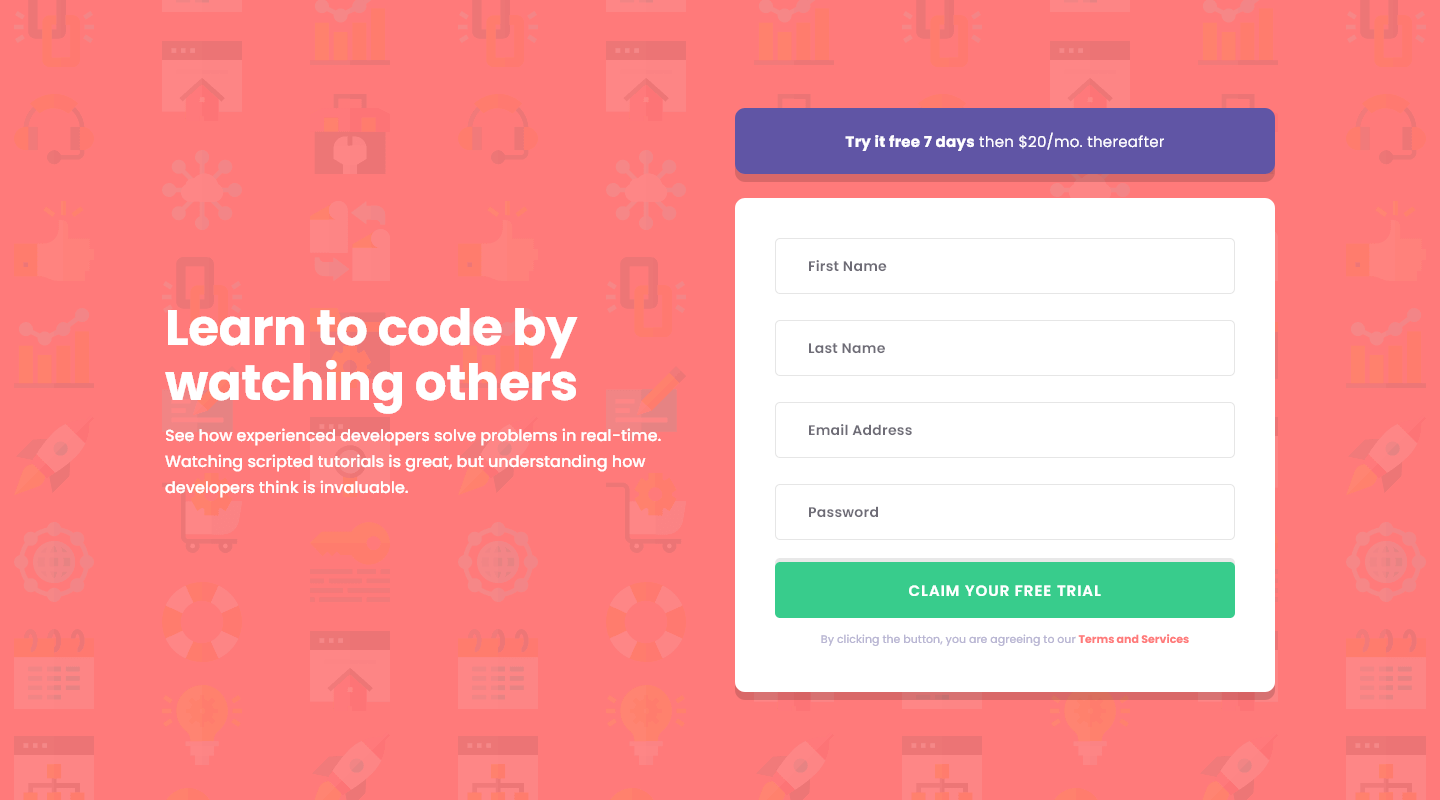
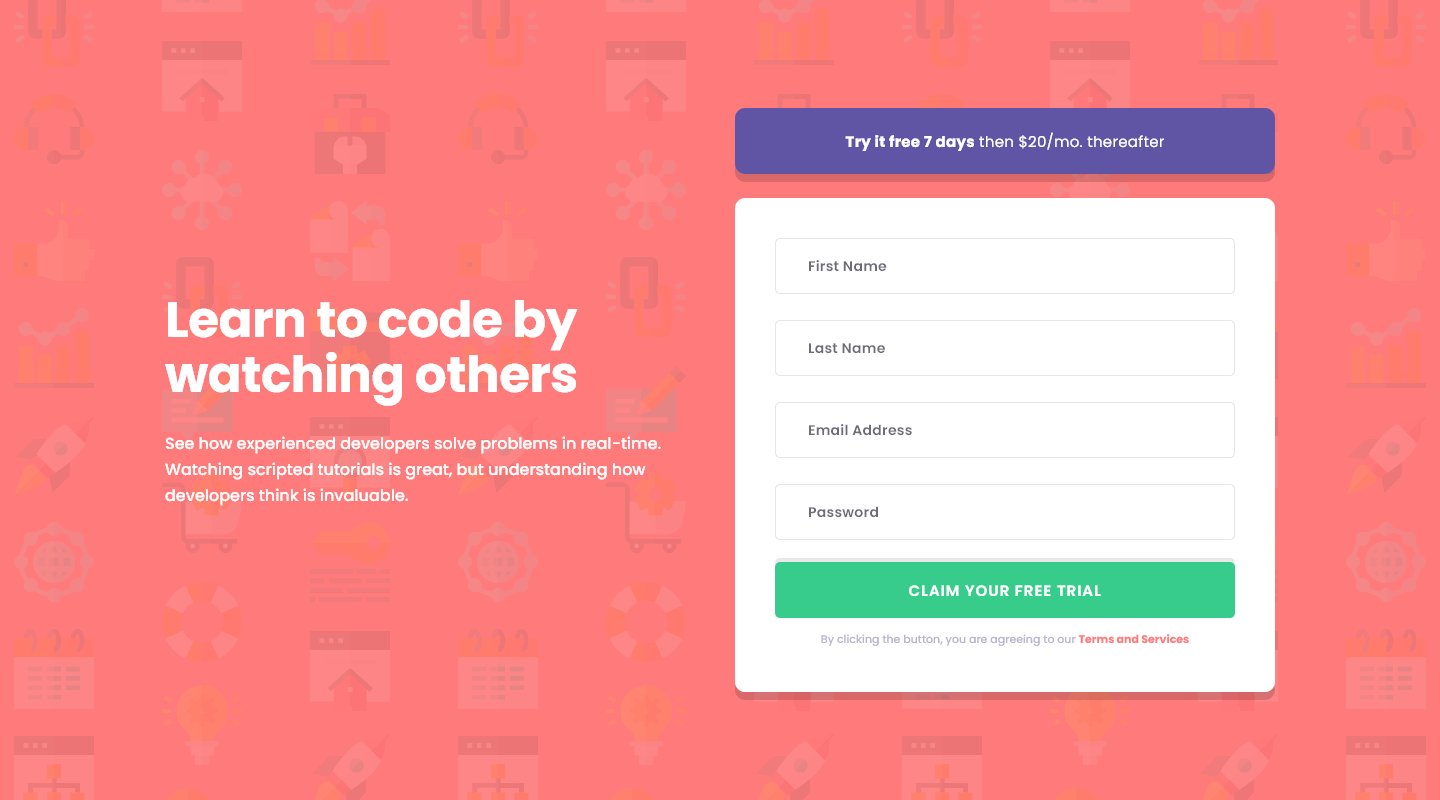
update screenshot

Changed region(s): [[0.0938, 0.375, 0.4688, 0.625]]

diff --git a/src/App.jsx b/src/App.jsx
@@ -8,7 +8,7 @@ function App() {
         <div className="mx-6 my-16 flex flex-col items-center gap-16 text-white lg:mx-4 lg:my-0 lg:flex-row lg:gap-[45px]">
           {/* left content */}
           <div className="max-w-[525px] text-center lg:text-left">
-            <h1 className="mb-4 text-[28px] font-bold leading-9 tracking-[-0.292px] lg:mb-3 lg:text-[50px] lg:leading-[55px] lg:tracking-[-0.521px]">
+            <h1 className="mb-4 text-[28px] font-bold leading-9 tracking-[-0.292px] lg:mb-3 lg:mb-7 lg:text-[50px] lg:leading-[55px] lg:tracking-[-0.521px]">
               Learn to code by watching others
             </h1>
             <p className="font-medium leading-[26px]">
